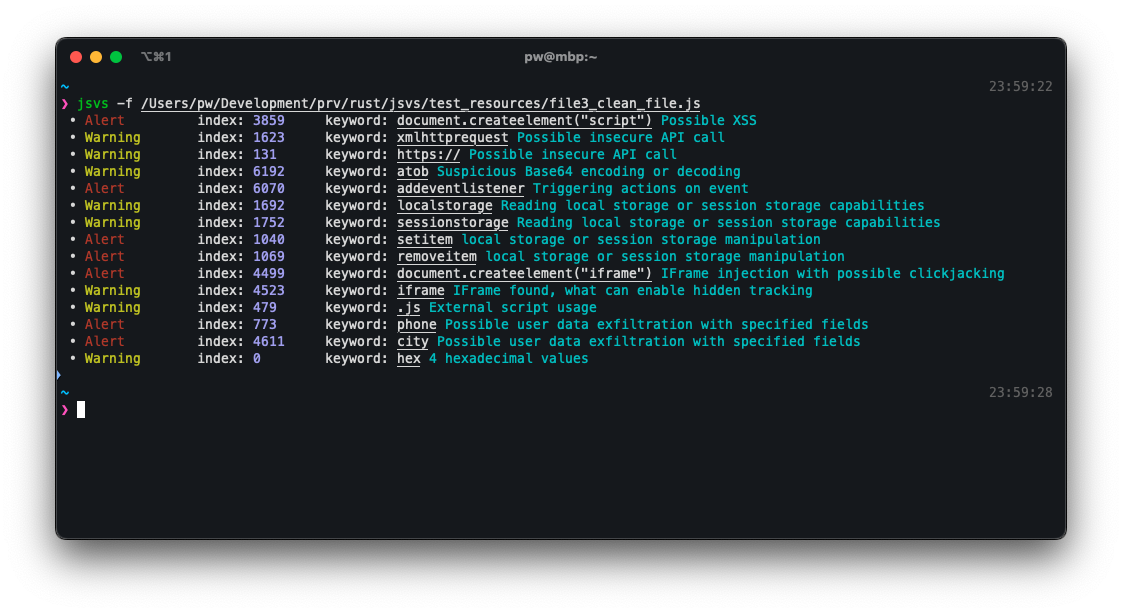
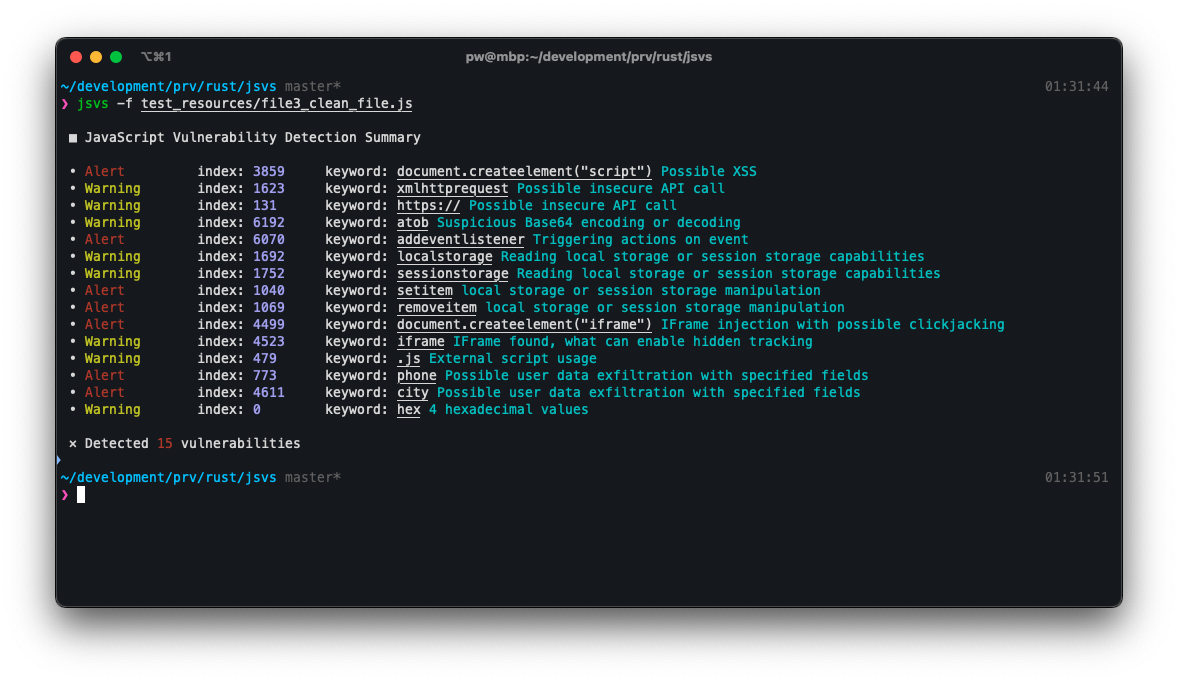
updated summary formatting and added vulnerabilities counting

Changed region(s): [[0.0312, 0.031, 0.967, 0.9299]]

diff --git a/src/main.rs b/src/main.rs
@@ -43,10 +43,50 @@ fn main() {
     }
 
     let file_content = fs::read_to_string(filepath).expect("Cannot read file");
-    analyze_javascript_code(file_content, false);
+    let vulnerabilities = find_vulnerabilities_in_javascript_code(file_content, false);
+    print_summary_of_the_analysis(&vulnerabilities);
 }
 
-fn analyze_javascript_code(file_content: String, is_base64_decoded: bool) {
+fn print_summary_of_the_analysis(vulnerabilities: &Vec<DetectedVulnerability>) {
+    println!();
+    println!(" ■ JavaScript Vulnerability Detection Summary");
+    println!();
+
+    if !vulnerabilities.is_empty() {
+        print_detected_vulnerabilities(&vulnerabilities);
+    } else {
+        println!("{}", " ✓ Looks like this code is safe!".bright_green());
+    }
+
+    println!();
+    println!(
+        "{} {} {}",
+        " ✕ Detected",
+        vulnerabilities.len().to_string().red(),
+        "vulnerabilities"
+    );
+}
+
+fn print_detected_vulnerabilities(detected_vulnerabilities: &Vec<DetectedVulnerability>) {
+    for v in detected_vulnerabilities {
+        println!(
+            " • {}\t index: {}\t keyword: {} {}",
+            if v.vulnerability_type == Alert {
+                "Alert".red()
+            } else {
+                "Warning".yellow()
+            },
+            v.keyword_index.to_string().bright_blue(),
+            v.keyword.to_string().underline(),
+            v.description.cyan()
+        );
+    }
+}
+
+fn find_vulnerabilities_in_javascript_code(
+    file_content: String,
+    is_base64_decoded: bool,
+) -> Vec<DetectedVulnerability> {
     let mut vulnerabilities: Vec<DetectedVulnerability> = Vec::new();
 
     vulnerabilities.extend(find_vulnerabilities_by_rules(
@@ -56,8 +96,7 @@ fn analyze_javascript_code(file_content: String, is_base64_decoded: bool) {
     vulnerabilities.extend(find_suspocious_hex_obfuscation(&file_content));
     vulnerabilities.extend(find_vulnerabilities_in_base64(&file_content));
     vulnerabilities.extend(find_possible_remote_code_execution(&vulnerabilities));
-
-    print_detected_vulnerabilities(vulnerabilities);
+    vulnerabilities
 }
 
 fn find_vulnerabilities_by_rules(
@@ -116,7 +155,10 @@ fn find_vulnerabilities_in_base64(content: &String) -> Vec<DetectedVulnerability
             .expect("Failed to decode base64 string");
 
         let base64_decoded_text = String::from_utf8(decoded_bytes).expect("Invalid UTF-8");
-        analyze_javascript_code(base64_decoded_text, true);
+        detected_vulnerabilities.extend(find_vulnerabilities_in_javascript_code(
+            base64_decoded_text,
+            true,
+        ));
     }
     detected_vulnerabilities
 }
@@ -206,22 +248,6 @@ fn find_possible_remote_code_execution(
         }
     }
     detected_vulnerabilities
-}
-
-fn print_detected_vulnerabilities(detected_vulnerabilities: Vec<DetectedVulnerability>) {
-    for v in detected_vulnerabilities {
-        println!(
-            " • {}\t index: {}\t keyword: {} {}",
-            if v.vulnerability_type == Alert {
-                "Alert".red()
-            } else {
-                "Warning".yellow()
-            },
-            v.keyword_index.to_string().bright_blue(),
-            v.keyword.to_string().underline(),
-            v.description.cyan()
-        );
-    }
 }
 
 fn get_vulnerability_rules() -> [VulnerabilityRule; 16] {
